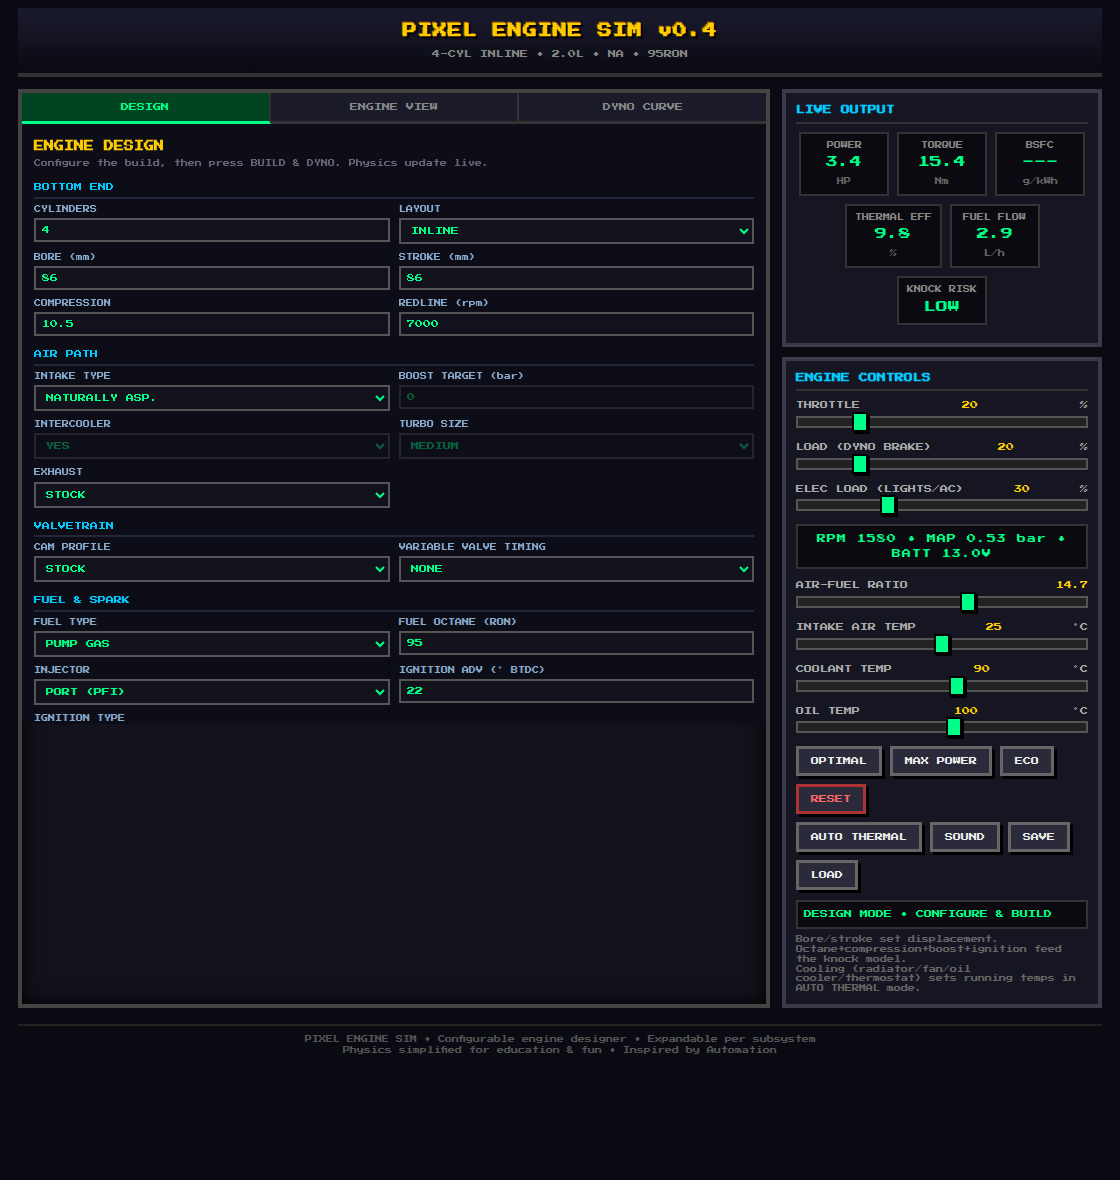
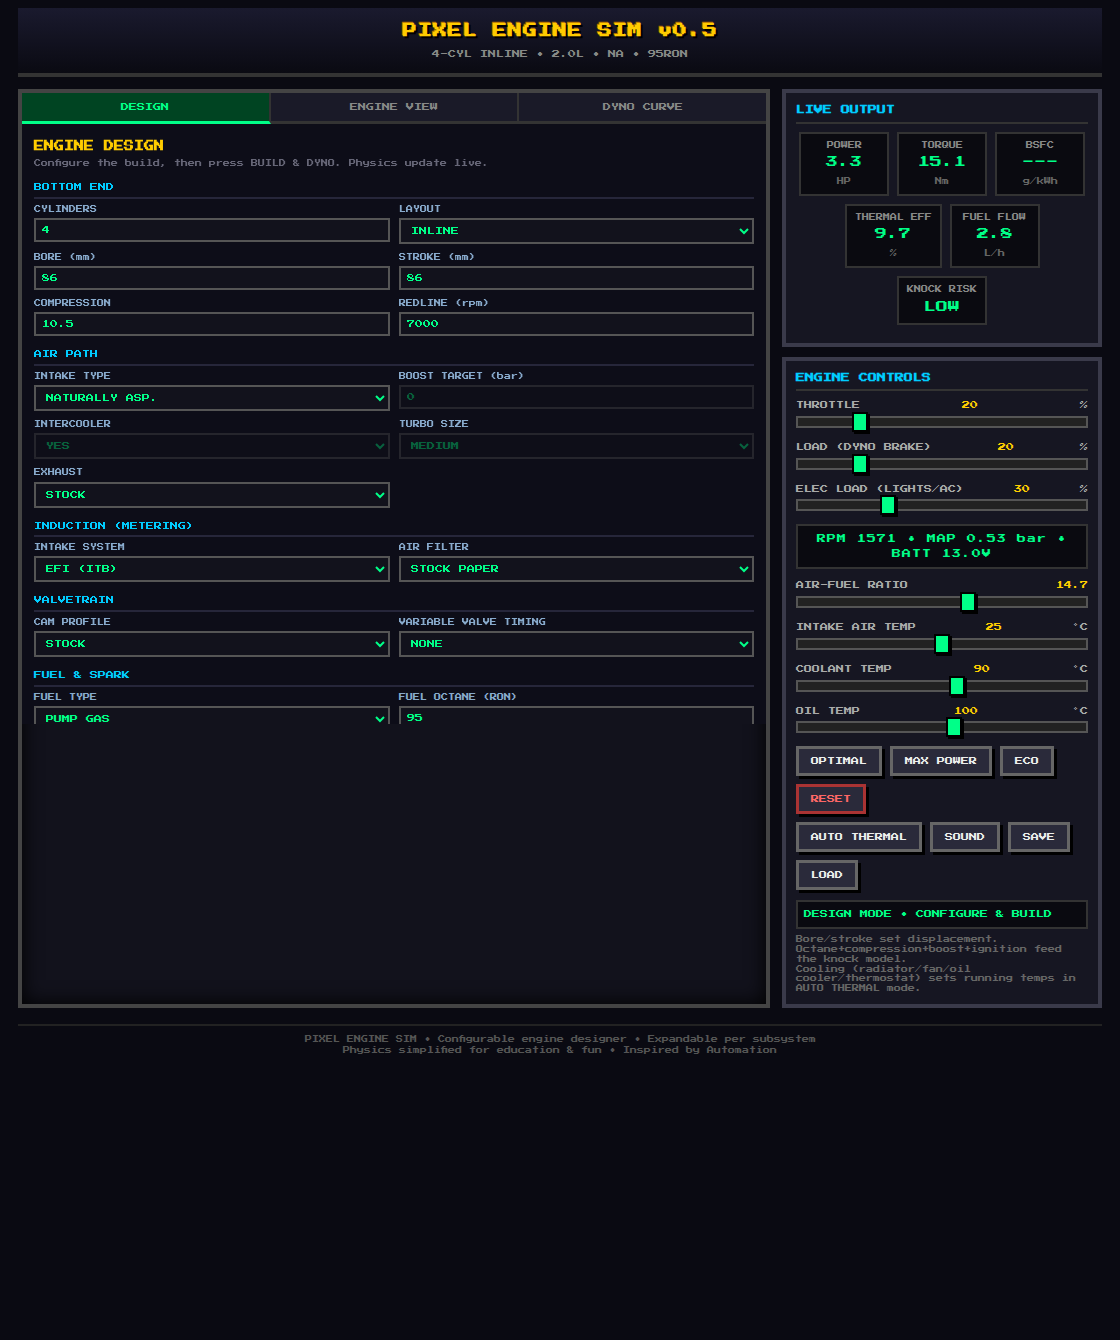
Add Auto ignition timing + induction/metering systems (v0.5)
Two big additions.

1) Ignition control (Fixed vs Auto). Timing was a single locked value; now the
   knock model's advance term is signed (retard pulls knock back down) and there
   are two modes:
   - FIXED — the designed advance (as before), optimal at only one operating point.
   - AUTO — an ECU that tracks MBT at every RPM/load and retards just enough to
     hold knock near a target. It makes more power across the whole curve and
     adapts to the fuel: full timing on race gas/E85, pulled timing on low octane
     or high boost. Live spark advance is shown in the engine view (° with * = auto).

2) Induction / metering systems. New "Induction" design section: intake system
   (1/2/4-bbl carb, sidedraft carbs, mechanical injection, single-throttle EFI,
   individual throttle bodies) and air filter (open stacks → restrictive). These
   set top-end breathing (VE), AFR-metering precision (EFI is efficient; carbs and
   mechanical injection waste fuel → worse BSFC), manifold response, and idle
   quality. Direct injection is restricted to EFI systems.

Verified (2.0T pump 91): AUTO makes 288 hp vs 255/251 for fixed 30°/18°, with
better low-end and controlled knock. Intake ladder (2.0 NA): 1-bbl 143 → 4-bbl
162 → EFI 167 → ITB 179 hp, EFI/ITB best BSFC. Air filter none→restrictive:
179 → 160 hp. Bumped to v0.5; README + screenshots updated.

Claude-Session: https://claude.ai/code/session_01AEJgmuJne9ALT6jCcxozCn

Changed region(s): [[0.0, 0.0, 1.0, 0.9153], [0.6562, 0.8847, 0.6875, 0.9153], [0.375, 0.8847, 0.4062, 0.9153]]

diff --git a/index.html b/index.html
@@ -80,7 +80,7 @@ footer{text-align:center;margin-top:16px;padding:8px;font-size:7px;color:#555;bo
 <body>
 <div class="container">
 <header>
-<h1>PIXEL ENGINE SIM v0.4</h1>
+<h1>PIXEL ENGINE SIM v0.5</h1>
 <div class="subtitle" id="subtitle">ENGINE DESIGNER • BUILD IT, THEN DRIVE IT</div>
 </header>
 <div class="main">
@@ -114,6 +114,20 @@ footer{text-align:center;margin-top:16px;padding:8px;font-size:7px;color:#555;bo
 <div class="field"><label for="edExhaust">EXHAUST</label><select id="edExhaust"><option value="stock">STOCK</option><option value="sport">SPORT</option><option value="race">RACE</option></select></div>
 </div>
 
+<div class="design-section">Induction (Metering)</div>
+<div class="design-grid">
+<div class="field"><label for="edIntakeSys">INTAKE SYSTEM</label><select id="edIntakeSys">
+<option value="carb1">1-BBL CARB</option>
+<option value="carb2">2-BBL CARB</option>
+<option value="carb4">4-BBL CARB</option>
+<option value="sidedraft">SIDEDRAFT CARBS</option>
+<option value="mech">MECH INJECTION</option>
+<option value="efi">EFI (SINGLE TB)</option>
+<option value="itb">EFI (ITB)</option>
+</select></div>
+<div class="field"><label for="edAirFilter">AIR FILTER</label><select id="edAirFilter"><option value="none">NONE (STACKS)</option><option value="perf">PERFORMANCE</option><option value="stock">STOCK PAPER</option><option value="restrictive">RESTRICTIVE</option></select></div>
+</div>
+
 <div class="design-section">Valvetrain</div>
 <div class="design-grid">
 <div class="field"><label for="edCam">CAM PROFILE</label><select id="edCam"><option value="stock">STOCK</option><option value="sport">SPORT</option><option value="race">RACE</option></select></div>
@@ -125,8 +139,9 @@ footer{text-align:center;margin-top:16px;padding:8px;font-size:7px;color:#555;bo
 <div class="field"><label for="edFuel">FUEL TYPE</label><select id="edFuel"><option value="gasoline">PUMP GAS</option><option value="race">RACE GAS</option><option value="e85">E85</option><option value="methanol">METHANOL</option></select></div>
 <div class="field"><label for="edOctane">FUEL OCTANE (RON)</label><input type="number" id="edOctane" min="87" max="110" step="1" value="95"></div>
 <div class="field"><label for="edInjector">INJECTOR</label><select id="edInjector"><option value="port">PORT (PFI)</option><option value="direct">DIRECT (DI)</option></select></div>
-<div class="field"><label for="edIgnAdv">IGNITION ADV (° BTDC)</label><input type="number" id="edIgnAdv" min="5" max="40" step="1" value="22"></div>
 <div class="field"><label for="edIgnType">IGNITION TYPE</label><select id="edIgnType"><option value="distributor">DISTRIBUTOR</option><option value="wasted">WASTED SPARK</option><option value="coil">COIL-ON-PLUG</option></select></div>
+<div class="field"><label for="edTiming">IGNITION CONTROL</label><select id="edTiming"><option value="fixed">FIXED (LOCKED)</option><option value="auto">AUTO (ECU / KNOCK-LIMITED)</option></select></div>
+<div class="field"><label for="edIgnAdv">IGNITION ADV (° BTDC)</label><input type="number" id="edIgnAdv" min="5" max="40" step="1" value="22"></div>
 </div>
 
 <div class="design-section">Cooling</div>
@@ -216,14 +231,37 @@ const CAM={
   sport:{peakShift:600, ampMul:1.04,loWiden:0.82,lowLoss:0.05,scav:0.04,idleRpm:150},
   race: {peakShift:1300,ampMul:1.08,loWiden:0.66,lowLoss:0.12,scav:0.08,idleRpm:400}
 };
+// Induction / metering system. flowTop = top-end breathing adjustment (airflow: restrictive
+// carbs choke up top, ITB/sidedraft/mech-injection breathe best). flowLow = low-rpm effect
+// (small carbs keep intake velocity; race setups sacrifice low-end plenum). metering = AFR
+// precision → efficiency (EFI holds optimal AFR everywhere; carbs/mech run rich & waste
+// fuel). resp = manifold response for the dynamic model. idle = idle-rpm penalty. di =
+// whether direct injection is available. Values chosen to reflect real relative behaviour.
+const INTAKE_SYS={
+  carb1:    {label:'1-BBL CARB',      flowTop:-0.16,flowLow:+0.03,metering:0.90,resp:0.90,idle:0,  di:false},
+  carb2:    {label:'2-BBL CARB',      flowTop:-0.09,flowLow:+0.01,metering:0.92,resp:0.95,idle:0,  di:false},
+  carb4:    {label:'4-BBL CARB',      flowTop:-0.03,flowLow:-0.02,metering:0.93,resp:1.00,idle:40, di:false},
+  sidedraft:{label:'SIDEDRAFT CARBS', flowTop:+0.06,flowLow:-0.05,metering:0.92,resp:1.15,idle:250,di:false},
+  mech:     {label:'MECH INJECTION',  flowTop:+0.05,flowLow:-0.07,metering:0.89,resp:1.10,idle:300,di:false},
+  efi:      {label:'EFI (SINGLE TB)', flowTop:0.00, flowLow:0.00, metering:1.00,resp:1.00,idle:0,  di:true},
+  itb:      {label:'EFI (ITB)',       flowTop:+0.08,flowLow:-0.03,metering:1.00,resp:1.25,idle:180,di:true}
+};
+// Air filter restriction (a top-end-weighted VE loss; open stacks flow best but don't filter).
+const AIR_FILTER={
+  none:       {label:'NONE (STACKS)',flowTop:+0.02},
+  perf:       {label:'PERFORMANCE',  flowTop:-0.01},
+  stock:      {label:'STOCK PAPER',  flowTop:-0.04},
+  restrictive:{label:'RESTRICTIVE',  flowTop:-0.10}
+};
 
 // The engine build spec. Everything downstream derives from this object, so new
 // subsystems (electrical, cooling, etc.) can be added later as more fields here.
 const DEFAULT_ENGINE={
   cylinders:4,bore_mm:86,stroke_mm:86,compression:10.5,layout:'inline',redline:7000,
   intake:'na',boost_bar:0,intercooler:true,turboSize:'medium',exhaust:'stock',
+  intakeSys:'efi',airFilter:'stock',
   cam:'stock',vvt:false,
-  fuel:'gasoline',octane:95,injector:'port',ignitionAdv:22,ignitionType:'coil',
+  fuel:'gasoline',octane:95,injector:'port',ignitionAdv:22,ignitionType:'coil',timingMode:'fixed',
   radiator:'stock',fan:'electric',oilCooler:false,thermostat:88,
   alternator:'120'
 };
@@ -282,6 +320,8 @@ function readEngineFromForm(){
     intercooler:g('edIntercooler').value==='yes',
     turboSize:g('edTurboSize').value,
     exhaust:g('edExhaust').value,
+    intakeSys:g('edIntakeSys').value,
+    airFilter:g('edAirFilter').value,
     cam:g('edCam').value,
     vvt:g('edVVT').value==='yes',
     fuel:g('edFuel').value,
@@ -289,6 +329,7 @@ function readEngineFromForm(){
     injector:g('edInjector').value,
     ignitionAdv:clamp(Math.round(+g('edIgnAdv').value||22),5,40),
     ignitionType:g('edIgnType').value,
+    timingMode:g('edTiming').value,
     radiator:g('edRadiator').value,
     fan:g('edFan').value,
     oilCooler:g('edOilCooler').value==='yes',
@@ -302,10 +343,11 @@ function applyEngineToForm(e){
   g('edStroke').value=e.stroke_mm;g('edCR').value=e.compression;g('edRedline').value=e.redline;
   g('edIntake').value=e.intake;g('edBoost').value=e.boost_bar;g('edIntercooler').value=e.intercooler?'yes':'no';
   g('edTurboSize').value=e.turboSize||'medium';
+  g('edIntakeSys').value=e.intakeSys||'efi';g('edAirFilter').value=e.airFilter||'stock';
   g('edCam').value=e.cam||'stock';g('edVVT').value=e.vvt?'yes':'no';
   g('edFuel').value=e.fuel||'gasoline';
   g('edExhaust').value=e.exhaust;g('edOctane').value=e.octane;g('edInjector').value=e.injector;
-  g('edIgnAdv').value=e.ignitionAdv;g('edIgnType').value=e.ignitionType;
+  g('edIgnAdv').value=e.ignitionAdv;g('edIgnType').value=e.ignitionType;g('edTiming').value=e.timingMode||'fixed';
   g('edRadiator').value=e.radiator||'stock';g('edFan').value=e.fan||'electric';
   g('edOilCooler').value=e.oilCooler?'yes':'no';g('edThermostat').value=e.thermostat||88;
   g('edAlternator').value=e.alternator||'120';
@@ -319,6 +361,11 @@ function syncDesignEnable(){
   document.getElementById('edTurboSize').disabled=intake!=='turbo';
   // Octane only matters for pump gas; other fuels carry their own rating.
   document.getElementById('edOctane').disabled=document.getElementById('edFuel').value!=='gasoline';
+  // Fixed advance value only applies in FIXED timing mode.
+  document.getElementById('edIgnAdv').disabled=document.getElementById('edTiming').value!=='fixed';
+  // Direct injection only exists on EFI systems (carbs/mechanical injection can't do DI).
+  const sys=INTAKE_SYS[document.getElementById('edIntakeSys').value]||INTAKE_SYS.efi;
+  document.getElementById('edInjector').disabled=!sys.di;
 }
 function buildEngine(){
   const prevStoich=(engine&&engine.stoichAFR)||14.7;   // to preserve lambda across fuel swaps
@@ -352,7 +399,15 @@ function buildEngine(){
   engine.veWidthLo*=loWiden;
   engine.camLowLoss=camLowLoss;
   engine.camScav=cam.scav;
-  engine.idleRpmEff=IDLE_RPM+idlePenalty;   // wild cam idles higher / lumpier
+  // Induction system (metering + throttle) and air filter → breathing, AFR precision,
+  // manifold response, idle quality. Direct injection is only possible on EFI systems.
+  const sys=INTAKE_SYS[engine.intakeSys]||INTAKE_SYS.efi,filt=AIR_FILTER[engine.airFilter]||AIR_FILTER.stock;
+  if(!sys.di)engine.injector='port';          // carbs / mechanical injection: no DI
+  engine.inductionFlowTop=sys.flowTop+filt.flowTop;
+  engine.inductionFlowLow=sys.flowLow;
+  engine.meteringEff=sys.metering;            // AFR precision → thermal efficiency
+  engine.intakeRespK=sys.resp;                // manifold fill speed (dynamic model)
+  engine.idleRpmEff=IDLE_RPM+idlePenalty+sys.idle;   // wild cam / race intake idle higher & lumpier
   engine.crFactor=otto(engine.compression)/otto(10.5);   // 1.0 at CR 10.5
   engine.strokeFrictionMult=1+(engine.stroke_mm-86)/320;  // longer stroke = more friction
   engine.maxBoost=engine.intake==='na'?0:engine.boost_bar;
@@ -415,9 +470,10 @@ function updateDesignSummary(){
     '<b>'+engine.cylinders+' × '+engine.bore_mm+'×'+engine.stroke_mm+'mm</b> → <b>'+disp+' L</b> '+LAYOUT_LABEL[engine.layout]+
     '<br>Compression <b>'+engine.compression.toFixed(1)+':1</b> • Redline <b>'+engine.redline+'</b> rpm'+
     '<br>Induction <b>'+induction+'</b>'+
+    '<br>Intake <b>'+INTAKE_SYS[engine.intakeSys].label+'</b> • Filter <b>'+AIR_FILTER[engine.airFilter].label+'</b>'+
     '<br>Exhaust <b>'+engine.exhaust.toUpperCase()+'</b> • Cam <b>'+engine.cam.toUpperCase()+(engine.vvt?' + VVT':'')+'</b>'+
     '<br>Fuel <b>'+FUELS[engine.fuel].label+'</b> ('+engine.effOctane+' oct, '+engine.stoichAFR.toFixed(1)+':1 stoich'+(engine.chargeCool?', −'+engine.chargeCool+'°C charge':'')+')'+
-    '<br>Injection <b>'+(engine.injector==='direct'?'Direct':'Port')+'</b> • Ignition <b>'+engine.ignitionAdv+'° '+engine.ignitionType.toUpperCase()+'</b>'+
+    '<br>'+(engine.injector==='direct'?'<b>Direct inj</b> • ':'')+'Ignition <b>'+(engine.timingMode==='auto'?'AUTO (ECU)':engine.ignitionAdv+'° fixed')+' '+engine.ignitionType.toUpperCase()+'</b>'+
     '<br>Cooling <b>'+engine.radiator.toUpperCase()+' RAD</b> • <b>'+engine.fan.toUpperCase()+' FAN</b>'+(engine.oilCooler?' • <b>OIL COOLER</b>':'')+' • Thermostat <b>'+engine.thermostat+'°C</b>'+
     '<br>Electrical <b>'+engine.altMaxA+'A alt</b> • Ignition misfire above <b>~'+engine.dwellLimit+'</b> rpm ('+engine.ignitionType.toUpperCase()+')'+note;
 }
@@ -469,6 +525,9 @@ function computeVE(rpm,map){
   else ve*=1-(ex.lowLoss+engine.camLowLoss)*clamp((peak-rpm)/peak,0,1);                    // race exhaust / big cam hurt low end
   if(engine.intake==='turbo'&&rpm>peak)                                 // small turbo chokes up top
     ve*=1-engine.turboChoke*clamp((rpm-peak)/(engine.redline-peak),0,1);
+  // Induction system + air filter: restriction/flow weighted by airflow demand (rpm).
+  const breathe=clamp(rpm/engine.redline,0,1);
+  ve*=1+engine.inductionFlowTop*breathe+engine.inductionFlowLow*(1-breathe);
   ve*=(0.97+0.03*clamp(map/engine.mapMax,0,1.2));
   if(rpm>engine.redline)ve*=1-0.6*clamp((rpm-engine.redline)/(engine.redline*0.5),0,1);  // valve float
   return clamp(ve,0.2,1.2);
@@ -493,19 +552,19 @@ function tempFactors(coolant,oil){
   oilFrictionMult=clamp(oilFrictionMult,1.0,1.70);
   return{coolF,oilFrictionMult};
 }
-function computeKnockRisk(rpm,map){
-  // A knock "pressure" from load/CR/heat/timing/mixture, minus fuel & DI resistance.
+function ignBonus(){return {distributor:-2,wasted:0,coil:2}[engine.ignitionType]||0;}
+// Knock risk (0-100) for a given spark advance. The advance term is signed: advancing
+// past MBT feeds knock, retarding below it pulls knock back down.
+function knockAt(rpm,map,adv){
   const mbt=mbtAdvance(rpm,map);
-  const ignBonus={distributor:-2,wasted:0,coil:2}[engine.ignitionType]||0;
-  const afr=state.afr;
   let k=0;
   k+=Math.max(0,map-1.0)*30;                            // boost
   k+=Math.max(0,engine.compression-9)*8;                // static compression
   k+=Math.max(0,effIAT(map)-30)*0.8;                    // hot intake charge
   k+=Math.max(0,state.coolant-95)*1.0;                  // hot chamber
   k+=Math.max(0,rpm-engine.redline*0.8)/60;             // less time = more heat soak
-  k+=Math.max(0,engine.ignitionAdv-mbt-ignBonus)*2.5;   // over-advanced spark
-  const lam=afr/engine.stoichAFR;
+  k+=(adv-mbt-ignBonus())*2.5;                          // spark timing vs MBT (signed)
+  const lam=state.afr/engine.stoichAFR;
   k+=Math.max(0,(lam-0.95))*60;                         // lean burns hotter
   if(lam<0.87)k*=0.5;                                   // rich charge-cools
   k-=(engine.effOctane-90)*2.2;                         // fuel octane resists knock
@@ -513,6 +572,19 @@ function computeKnockRisk(rpm,map){
   if(engine.injector==='direct')k-=12;                  // DI charge cooling
   return clamp(k,0,100);
 }
+// The spark advance actually run at an operating point. FIXED = the designed value; AUTO =
+// an ECU that targets MBT and retards just enough to hold knock near KNOCK_TARGET.
+const KNOCK_TARGET=40;
+function activeAdvance(rpm,map){
+  const mbt=mbtAdvance(rpm,map);
+  if(engine.timingMode!=='auto')return engine.ignitionAdv;
+  const knockAtMbt=knockAt(rpm,map,mbt);
+  if(knockAtMbt<=KNOCK_TARGET)return mbt;               // clean at MBT → run full timing
+  const lam=state.afr/engine.stoichAFR,rich=lam<0.87?0.5:1;
+  const retard=(knockAtMbt-KNOCK_TARGET)/(2.5*Math.max(rich,0.3));
+  return clamp(mbt-retard,6,mbt);                       // pull timing to protect
+}
+function computeKnockRisk(rpm,map){return knockAt(rpm,map,activeAdvance(rpm,map));}
 // Friction + pumping mean effective pressure. Pumping loss grows with manifold vacuum
 // (throttling), which is what produces engine braking on a closed throttle.
 function pumpFrictionMEP(rpm,map,oilFrictionMult){
@@ -551,7 +623,7 @@ function calcAtRpm(rpm,mapOverride){
   const {coolF,oilFrictionMult}=tempFactors(state.coolant,state.oil);
   const ve=computeVE(rpm,map);
   const afrP=afrPowerFactor(state.afr);
-  const ignF=clamp(1-0.004*Math.pow(engine.ignitionAdv-mbtAdvance(rpm,map),2),0.72,1.0);
+  const ignF=clamp(1-0.004*Math.pow(activeAdvance(rpm,map)-mbtAdvance(rpm,map),2),0.72,1.0);
 
   let imep=IMEP_K*map*ve*afrP*coolF*engine.crFactor*ignF*ignitionHealth(rpm);
   imep*=298.15/(effIAT(map)+273.15);   // intake-air density correction (ref 25°C)
@@ -574,7 +646,7 @@ function brakeTorqueRaw(rpm,map,fuelCut){
   let imep=0;
   if(!fuelCut){
     const ve=computeVE(rpm,map),afrP=afrPowerFactor(state.afr);
-    const ignF=clamp(1-0.004*Math.pow(engine.ignitionAdv-mbtAdvance(rpm,map),2),0.72,1.0);
+    const ignF=clamp(1-0.004*Math.pow(activeAdvance(rpm,map)-mbtAdvance(rpm,map),2),0.72,1.0);
     imep=IMEP_K*map*ve*afrP*coolF*engine.crFactor*ignF*ignitionHealth(rpm)*(298.15/(effIAT(map)+273.15));
     const knock=computeKnockRisk(rpm,map);
     if(knock>60)imep*=1-0.32*((knock-60)/40);
@@ -598,7 +670,7 @@ function mapTarget(){
 // Integrate the dynamic engine: spool → manifold fill → net torque → RPM via inertia.
 function stepEngine(dt){
   stepBoost(dt);
-  state.map+=(mapTarget()-state.map)*(1-Math.exp(-MAP_K*dt));
+  state.map+=(mapTarget()-state.map)*(1-Math.exp(-MAP_K*engine.intakeRespK*dt));
   const limiter=state.rpm>=engine.redline;               // fuel cut at redline
   const tq=brakeTorqueRaw(state.rpm,state.map,limiter);
   // Dyno/road load rises with speed (light at low RPM so the engine can launch, heavy up
@@ -623,11 +695,13 @@ function updatePhysics(){
 
   const T_k=effIAT(map)+273.15,MAP_pa=map*1e5,Vd=engine.displacement_L/1000;
   const airMass_kg_s=(MAP_pa*Vd*(state.rpm/60)*state.ve)/(287*T_k*2);
-  const fuelMass_kg_s=airMass_kg_s/state.afr;
-  state.fuelFlowLph=(fuelMass_kg_s*3600)/engine.fuelDensity;
-  const fuelPower=fuelMass_kg_s*engine.fuelLHV*1e6/1000;
+  // Imprecise metering (carbs / mechanical injection) wastes fuel: same power, more fuel
+  // burned → higher flow, worse BSFC and lower thermal efficiency than EFI.
+  const meteredFuel=(airMass_kg_s/state.afr)/engine.meteringEff;
+  state.fuelFlowLph=(meteredFuel*3600)/engine.fuelDensity;
+  const fuelPower=meteredFuel*engine.fuelLHV*1e6/1000;
   state.thermalEff=fuelPower>0.1?clamp((state.powerKW/fuelPower)*100,0,45):0;
-  state.bsfc=state.powerKW>0.5?(fuelMass_kg_s*3600*1000)/state.powerKW:999;
+  state.bsfc=state.powerKW>0.5?(meteredFuel*3600*1000)/state.powerKW:999;
 }
 function getDynoData(){
   const key=[buildRev,state.afr.toFixed(1),state.iat,Math.round(state.coolant),Math.round(state.oil)].join('|');
@@ -810,6 +884,7 @@ function drawEngine(dt){
   ctx.fillStyle=state.knockRisk>70?C.red:(state.knockRisk>40?C.yellow:C.green);ctx.font='9px "Press Start 2P"';
   let msg='CYCLE: '+getStrokeName(crankAngle%720);
   if(engine.intake==='turbo')msg+='  •  BOOST +'+state.boostActual.toFixed(2);
+  msg+='  •  ADV '+Math.round(activeAdvance(state.rpm,state.map))+'°'+(engine.timingMode==='auto'?'*':'');
   msg+='  •  '+state.systemVoltage.toFixed(1)+'V';
   if(state.systemVoltage<11.6)msg+=' LOW';
   if(state.knockRisk>50)msg+='  •  KNOCK WARNING';
@@ -941,6 +1016,8 @@ function bindControls(){
 
   document.getElementById('edIntake').addEventListener('change',syncDesignEnable);
   document.getElementById('edFuel').addEventListener('change',syncDesignEnable);
+  document.getElementById('edTiming').addEventListener('change',syncDesignEnable);
+  document.getElementById('edIntakeSys').addEventListener('change',syncDesignEnable);
   document.getElementById('btnBuild').addEventListener('click',()=>{buildEngine();flash('ENGINE BUILT • '+engine.displacement_L.toFixed(engine.displacement_L<1?2:1)+'L');setTab('dyno')});
   document.getElementById('btnDesignReset').addEventListener('click',()=>{applyEngineToForm(Object.assign({},DEFAULT_ENGINE));buildEngine();flash('DESIGN RESET TO DEFAULTS')});
 }

diff --git a/README.md b/README.md
@@ -1,4 +1,4 @@
-# PIXEL ENGINE SIM v0.4
+# PIXEL ENGINE SIM v0.5
 
 **A lightweight, 8-bit style internal combustion engine *designer* & simulator** inspired by *Automation*.
 
@@ -18,6 +18,10 @@ feeds the physics:
   compression ratio, redline. Bore × stroke × cylinders sets the displacement.
 - **Air path** — naturally aspirated / turbo / supercharger, boost target, intercooler,
   turbo size (small / medium / large), and exhaust (stock / sport / race).
+- **Induction (metering)** — intake system (1/2/4-bbl carburetor, sidedraft carbs,
+  mechanical injection, single-throttle EFI, or individual throttle bodies) and air filter
+  (open stacks → restrictive). These set top-end breathing, AFR-metering precision (EFI is
+  most efficient; carbs waste fuel), throttle response and idle quality.
 - **Valvetrain** — cam profile (stock / sport / race) and variable valve timing (VVT). A
   wilder cam moves the powerband up and adds top-end at the cost of low-end torque and idle
   quality; VVT recovers the bottom end for a broad powerband.
@@ -26,10 +30,11 @@ feeds the physics:
   voltage then weakens the spark. Ignition type sets a dwell/misfire RPM limit (a
   distributor falls off up top; coil-on-plug holds to redline).
 - **Fuel & spark** — fuel type (pump gas / race gas / E85 / methanol), fuel octane (RON,
-  pump gas only), injector type (port / direct), ignition advance and ignition type
-  (distributor / wasted spark / coil-on-plug). Each fuel has its own energy density, stoich
-  AFR, knock rating and charge-cooling — alcohols resist knock and cool the charge (more
-  power headroom) but burn far more fuel.
+  pump gas only), injector type (port / direct), ignition type (distributor / wasted spark /
+  coil-on-plug), and **ignition control**: *Fixed* (a locked advance you dial in) or *Auto*
+  (an ECU that tracks MBT timing and retards just enough to stay off knock). Each fuel has
+  its own energy density, stoich AFR, knock rating and charge-cooling — alcohols resist
+  knock and cool the charge (more power headroom) but burn far more fuel.
 - **Cooling** — radiator size (small / stock / large), cooling fan (none / mechanical /
   electric), oil cooler, and thermostat opening temperature.
 
@@ -119,8 +124,15 @@ Curve** tab remains a wide-open-throttle steady-state sweep for reading the full
 - Turbo boost spools with RPM along a logistic curve: small turbos spool early (strong
   midrange) but choke the top end, large turbos lag down low but flow more up top. Actual
   boost also lags in time (turbo lag), so it builds over ~1 s in the live Engine View.
-- Ignition timing has a max-brake-torque optimum — too little or too much loses power, and
-  over-advance feeds knock.
+- Ignition timing has a max-brake-torque (MBT) optimum that varies with RPM and load — too
+  little or too much advance loses power, and advancing past MBT feeds knock (retarding pulls
+  it back). *Fixed* timing is only optimal at one operating point; *Auto* tracks MBT
+  everywhere and retards under knock, so it makes more power across the curve and adapts to
+  fuel — full timing on race gas/E85, pulled timing on low octane or high boost.
+- Intake system sets top-end airflow (restrictive small carbs choke up top; ITBs, sidedraft
+  carbs and mechanical injection breathe best) and AFR-metering precision — EFI holds optimal
+  AFR for the best efficiency, while carburetors and mechanical injection run richer and
+  waste fuel (worse BSFC). The air filter adds an airflow-weighted restriction.
 - Knock combines boost, compression, charge/coolant temperature, RPM, timing and mixture,
   offset by fuel octane, charge cooling and direct injection; high knock derates power.
 - Fuel type sets energy density, stoichiometric AFR (the mixture control works in lambda,
@@ -167,6 +179,8 @@ philosophy).
 - [x] Cooling subsystem (radiator size, fan, oil cooler, thermostat) feeding the thermal model
 - [x] Electrical subsystem (alternator, battery/charging, dwell-limited ignition misfire)
 - [x] Different fuels (pump/race gas, E85, methanol) with their own energy, stoich, knock & cooling
+- [x] Induction/metering systems (carbs, mechanical injection, EFI, ITBs) + air filters
+- [x] Ignition control: Fixed vs Auto (ECU, MBT-tracking & knock-limited timing)
 - [ ] Reliability / wear simulation
 - [x] Calibration pass for realistic power figures & curve shape (ongoing refinement)
 - [ ] Native Android build (wrap the PWA with Capacitor or a Trusted Web Activity)